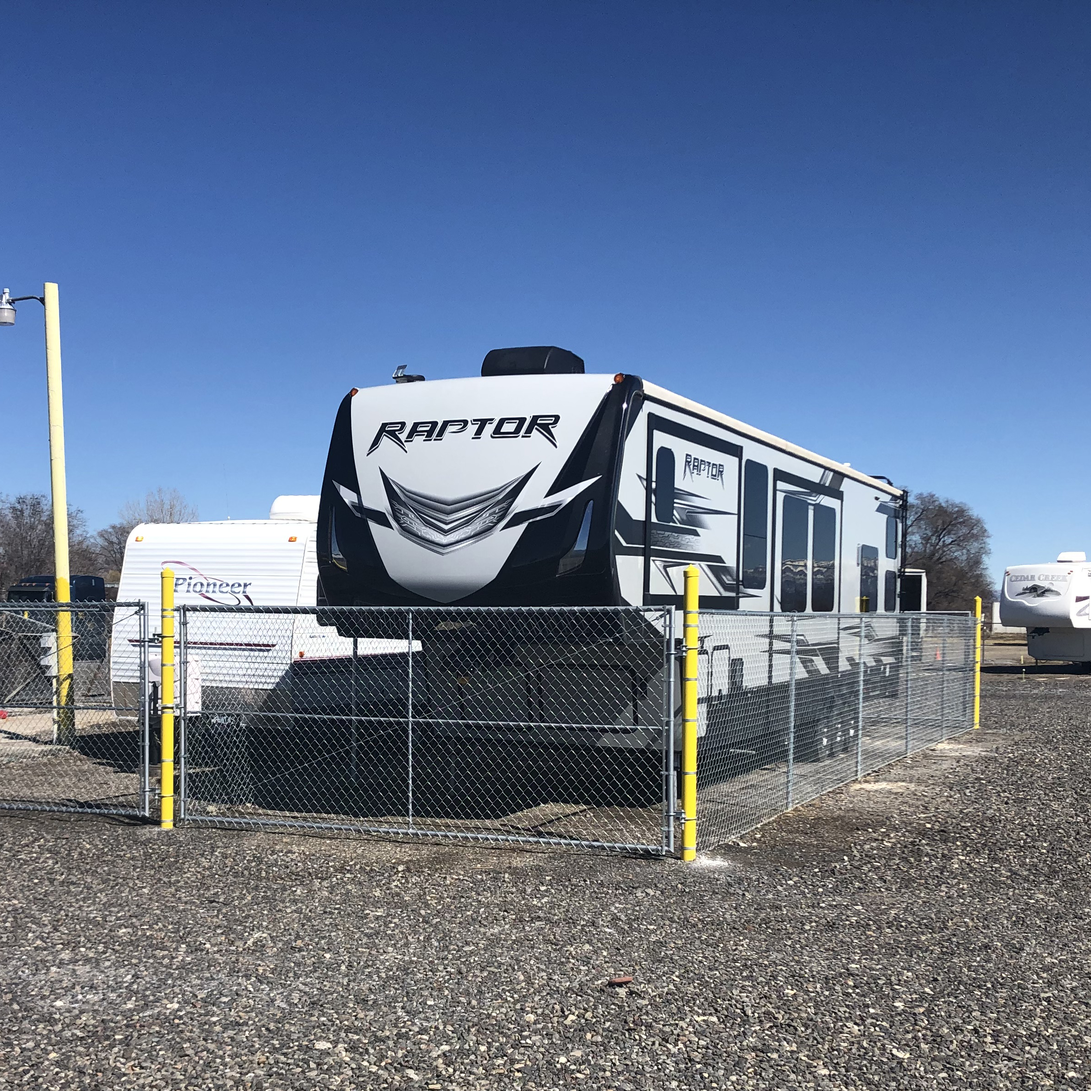
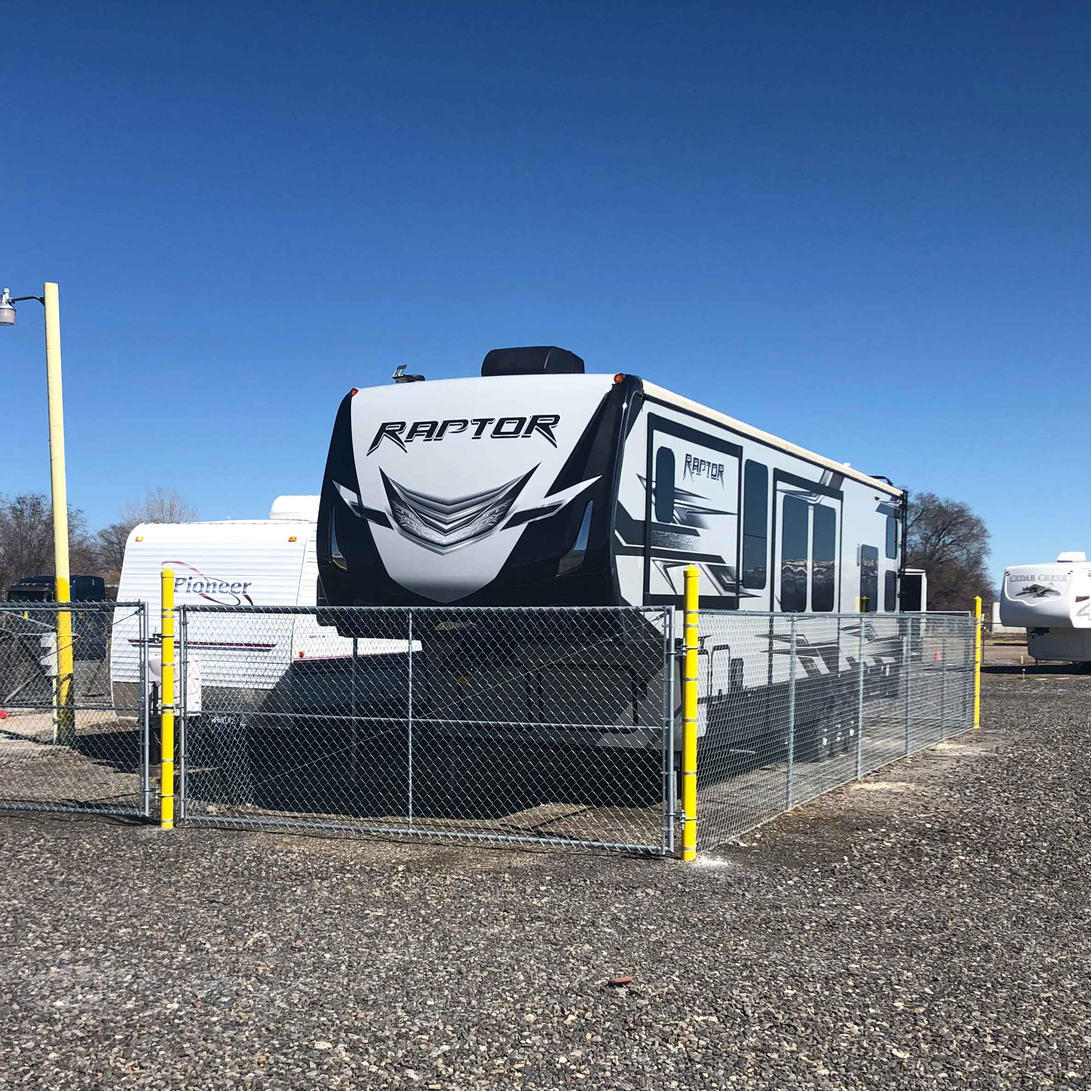
optimize images, update modal image

diff --git a/css/landing-page.min.css b/css/landing-page.min.css
@@ -2,4 +2,4 @@
  * Start Bootstrap - Extra Space v (https://extraspace1000.com)
  * Copyright 2013-2020 
  * Licensed under MIT (https://github.com/BlackrockDigital/extra-space-storage-website/blob/master/LICENSE)
- */body{font-family:Lato,'Helvetica Neue',Helvetica,Arial,sans-serif}h1,h2,h3,h4,h5,h6{font-family:Lato,'Helvetica Neue',Helvetica,Arial,sans-serif;font-weight:700}header.masthead{position:relative;background-color:#4e86ff;background:url(../img/yard_entrance_crop.png) no-repeat center center;background-size:cover;margin-top:-120px;padding-top:26rem;padding-bottom:2rem}header.masthead .overlay{position:absolute;background-color:#212529;height:100%;width:100%;top:0;left:0;opacity:.4}header.masthead .modal-body a{color:#007bff}header.masthead h1{font-size:2rem}header.masthead a{color:#fff;font-size:1.1rem}@media (min-width:768px){header.masthead{padding-top:30rem;padding-bottom:4rem}}.showcase .showcase-text{background-color:#fff2bf;padding:3rem;margin:0}.showcase .showcase-img{min-height:30rem;background-size:cover}.showcase .showcase-list{font-size:1rem;font-weight:300}.showcase .showcase-list ul{display:block;list-style-type:disc;-webkit-margin-before:0;margin-block-start:0;-webkit-margin-after:0;margin-block-end:0;-webkit-margin-start:0;margin-inline-start:0;-webkit-margin-end:0;margin-inline-end:0;-webkit-padding-start:20px;padding-inline-start:20px}.showcase .overlay{height:auto;min-height:30rem;background:linear-gradient(to bottom,rgba(0,0,0,.2) 0,rgba(0,0,0,.6) 50%,rgba(0,0,0,0) 100%),url(../img/yard_by_drone-1.jpg);background-position:center;background-repeat:no-repeat;background-attachment:scroll;background-size:cover}.showcase .table td{border-top:1px solid #adb5bd}.showcase h2{color:#fd432b}.showcase .modal-trigger{background-color:#fff}.showcase .modal-trigger:hover{background-color:#212529}@media (min-width:768px){.showcase .showcase-text{padding:7rem}}@media (min-width:576px){.showcase .showcase-text{padding-top:7rem}}.map-responsive{background-size:contain;overflow:hidden;padding-bottom:30%;position:relative;height:0}.map-responsive iframe{left:0;top:0;height:100%;width:100%;position:absolute;scroll-behavior:none;overflow:hidden}.features-icons{padding-top:7rem;padding-bottom:7rem}.features-icons .features-icons-item{max-width:20rem}.features-icons .features-icons-item .features-icons-icon{height:7rem}.features-icons .features-icons-item .features-icons-icon i{font-size:4.5rem}.features-icons .features-icons-item:hover .features-icons-icon i{font-size:5rem}.testimonials{padding-top:7rem;padding-bottom:7rem}.testimonials .testimonial-item{max-width:18rem}.testimonials .testimonial-item img{max-width:12rem;box-shadow:0 5px 5px 0 #adb5bd}.call-to-action{position:relative;background-color:#343a40;background:no-repeat 50% 55%/200% url(../img/custom_spaces.jpg);padding-top:19rem}.call-to-action .overlay{position:absolute;background-color:#212529;height:100%;width:100%;top:0;left:0;opacity:.4}.call-to-action .address p{margin:0}.call-to-action .cta-item{background-color:#fff}@media (min-width:768px){.call-to-action{background:no-repeat center center url(../img/custom_spaces.jpg);background-size:cover;padding-top:20rem}}footer.footer{padding-top:4rem;padding-bottom:4rem}footer.footer ul{list-style-type:none}footer.footer .list-item{margin-bottom:3rem}html{overflow-x:hidden}a{color:#355e4a}.text-primary{color:#355e4a!important}.bg-primary{background-color:#355e4a!important}.btn-primary{background-color:#355e4a!important;border-color:#355e4a!important}.nav-pills .nav-link.active,.nav-pills .show>.nav-link{color:#fff;background-color:#355e4a!important}
+ */body{font-family:Lato,'Helvetica Neue',Helvetica,Arial,sans-serif}h1,h2,h3,h4,h5,h6{font-family:Lato,'Helvetica Neue',Helvetica,Arial,sans-serif;font-weight:700}header.masthead{position:relative;background-color:#4e86ff;background:url(../img/yard_entrance_crop.jpg) no-repeat center center;background-size:cover;margin-top:-120px;padding-top:26rem;padding-bottom:2rem}header.masthead .overlay{position:absolute;background-color:#212529;height:100%;width:100%;top:0;left:0;opacity:.4}header.masthead .modal-body a{color:#007bff}header.masthead h1{font-size:2rem}header.masthead a{color:#fff;font-size:1.1rem}@media (min-width:768px){header.masthead{padding-top:30rem;padding-bottom:4rem}}.showcase .showcase-text{background-color:#fff2bf;padding:3rem;margin:0}.showcase .showcase-img{min-height:30rem;background-size:cover}.showcase .showcase-list{font-size:1rem;font-weight:300}.showcase .showcase-list ul{display:block;list-style-type:disc;-webkit-margin-before:0;margin-block-start:0;-webkit-margin-after:0;margin-block-end:0;-webkit-margin-start:0;margin-inline-start:0;-webkit-margin-end:0;margin-inline-end:0;-webkit-padding-start:20px;padding-inline-start:20px}.showcase .overlay{height:auto;min-height:30rem;background:linear-gradient(to bottom,rgba(0,0,0,.2) 0,rgba(0,0,0,.6) 50%,rgba(0,0,0,0) 100%),url(../img/yard_by_drone-1.jpg);background-position:center;background-repeat:no-repeat;background-attachment:scroll;background-size:cover}.showcase .table td{border-top:1px solid #adb5bd}.showcase h2{color:#fd432b}.showcase .modal-trigger{background-color:#fff}.showcase .modal-trigger:hover{background-color:#212529}@media (min-width:768px){.showcase .showcase-text{padding:7rem}}@media (min-width:576px){.showcase .showcase-text{padding-top:7rem}}.map-responsive{background-size:contain;overflow:hidden;padding-bottom:30%;position:relative;height:0}.map-responsive iframe{left:0;top:0;height:100%;width:100%;position:absolute;scroll-behavior:none;overflow:hidden}.features-icons{padding-top:7rem;padding-bottom:7rem}.features-icons .features-icons-item{max-width:20rem}.features-icons .features-icons-item .features-icons-icon{height:7rem}.features-icons .features-icons-item .features-icons-icon i{font-size:4.5rem}.features-icons .features-icons-item:hover .features-icons-icon i{font-size:5rem}.testimonials{padding-top:7rem;padding-bottom:7rem}.testimonials .testimonial-item{max-width:18rem}.testimonials .testimonial-item img{max-width:12rem;box-shadow:0 5px 5px 0 #adb5bd}.call-to-action{position:relative;background-color:#343a40;background:no-repeat 50% 55%/200% url(../img/custom_spaces.jpg);padding-top:19rem}.call-to-action .overlay{position:absolute;background-color:#212529;height:100%;width:100%;top:0;left:0;opacity:.4}.call-to-action .address p{margin:0}.call-to-action .cta-item{background-color:#fff}@media (min-width:768px){.call-to-action{background:no-repeat center center url(../img/custom_spaces.jpg);background-size:cover;padding-top:20rem}}footer.footer{padding-top:4rem;padding-bottom:4rem}footer.footer ul{list-style-type:none}footer.footer .list-item{margin-bottom:3rem}html{overflow-x:hidden}a{color:#355e4a}.text-primary{color:#355e4a!important}.bg-primary{background-color:#355e4a!important}.btn-primary{background-color:#355e4a!important;border-color:#355e4a!important}.nav-pills .nav-link.active,.nav-pills .show>.nav-link{color:#fff;background-color:#355e4a!important}

diff --git a/index.html b/index.html
@@ -5,8 +5,7 @@
 
   <meta charset="utf-8">
   <meta name="viewport" content="width=device-width, initial-scale=1, shrink-to-fit=no">
-  <meta name="description" content="">
-  <meta name="author" content="">
+  <meta name="description" content="Looking for outdoor or indoor storage space in Grand Junction, CO? Check out our low monthly rates! Multiple storage space sizes available.">
 
   <link rel="apple-touch-icon" sizes="180x180" href="/apple-touch-icon.png">
   <link rel="icon" type="image/png" sizes="32x32" href="/favicon-32x32.png">
@@ -200,7 +199,7 @@
         <!-- Modal trigger div -->
         <div class="col-sm-6  showcase-img modal-trigger text-center d-flex align-items-center" data-toggle="modal"
           data-target="#extraSpaceYardModalCenter"
-          style="background-image: url('img/south_yard.jpg'); background-size: contain; background-repeat: no-repeat; background-position: center;">
+          style="background-image: url('img/south_yard_map-2.jpg'); background-size: contain; background-repeat: no-repeat; background-position: center;">
           <button type="button" class="btn btn-lg btn-secondary mx-auto " data-toggle="modal"
             data-target="#extraSpaceYardModalCenter">
             See more
@@ -218,7 +217,7 @@
                 </button>
               </div>
               <div class="modal-body">
-                <img src="./img/south_yard.jpg" style="width: 100%; height: 100%" />
+                <img src="./img/south_yard_map-2.jpg" style="width: 100%; height: 100%" />
               </div>
             </div>
           </div>

diff --git a/scss/_masthead.scss b/scss/_masthead.scss
@@ -1,7 +1,7 @@
 header.masthead {
   position: relative;
   background-color: rgb(78, 134, 255);
-  background: url('../img/yard_entrance_crop.png') no-repeat center center;
+  background: url('../img/yard_entrance_crop.jpg') no-repeat center center;
   @include background-cover;
   margin-top: -120px;
   padding-top: 26rem;

diff --git a/css/landing-page.css b/css/landing-page.css
@@ -21,7 +21,7 @@ h6 {
 header.masthead {
   position: relative;
   background-color: #4e86ff;
-  background: url("../img/yard_entrance_crop.png") no-repeat center center;
+  background: url("../img/yard_entrance_crop.jpg") no-repeat center center;
   background-size: cover;
   margin-top: -120px;
   padding-top: 26rem;
